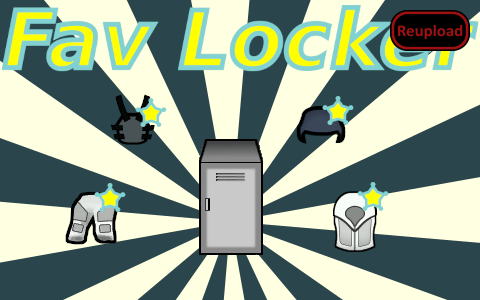
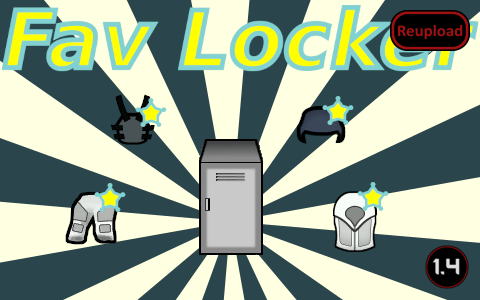
Fixed the extra patches for the Protector Armor/Helmet

Changed region(s): [[0.875, 0.81, 1.0, 0.96]]

diff --git a/README.md b/README.md
@@ -133,5 +133,5 @@ Thank you.
 
 
 
+https://steamcommunity.com/sharedfiles/filedetails/changelog/2586243600]![Image](https://img.shields.io/github/v/release/emipa606/FavLocker?label=latest%20version&style=plastic&color=9f1111&labelColor=black)
 
-https://steamcommunity.com/sharedfiles/filedetails/changelog/2586243600]Last updated 2023-05-06
